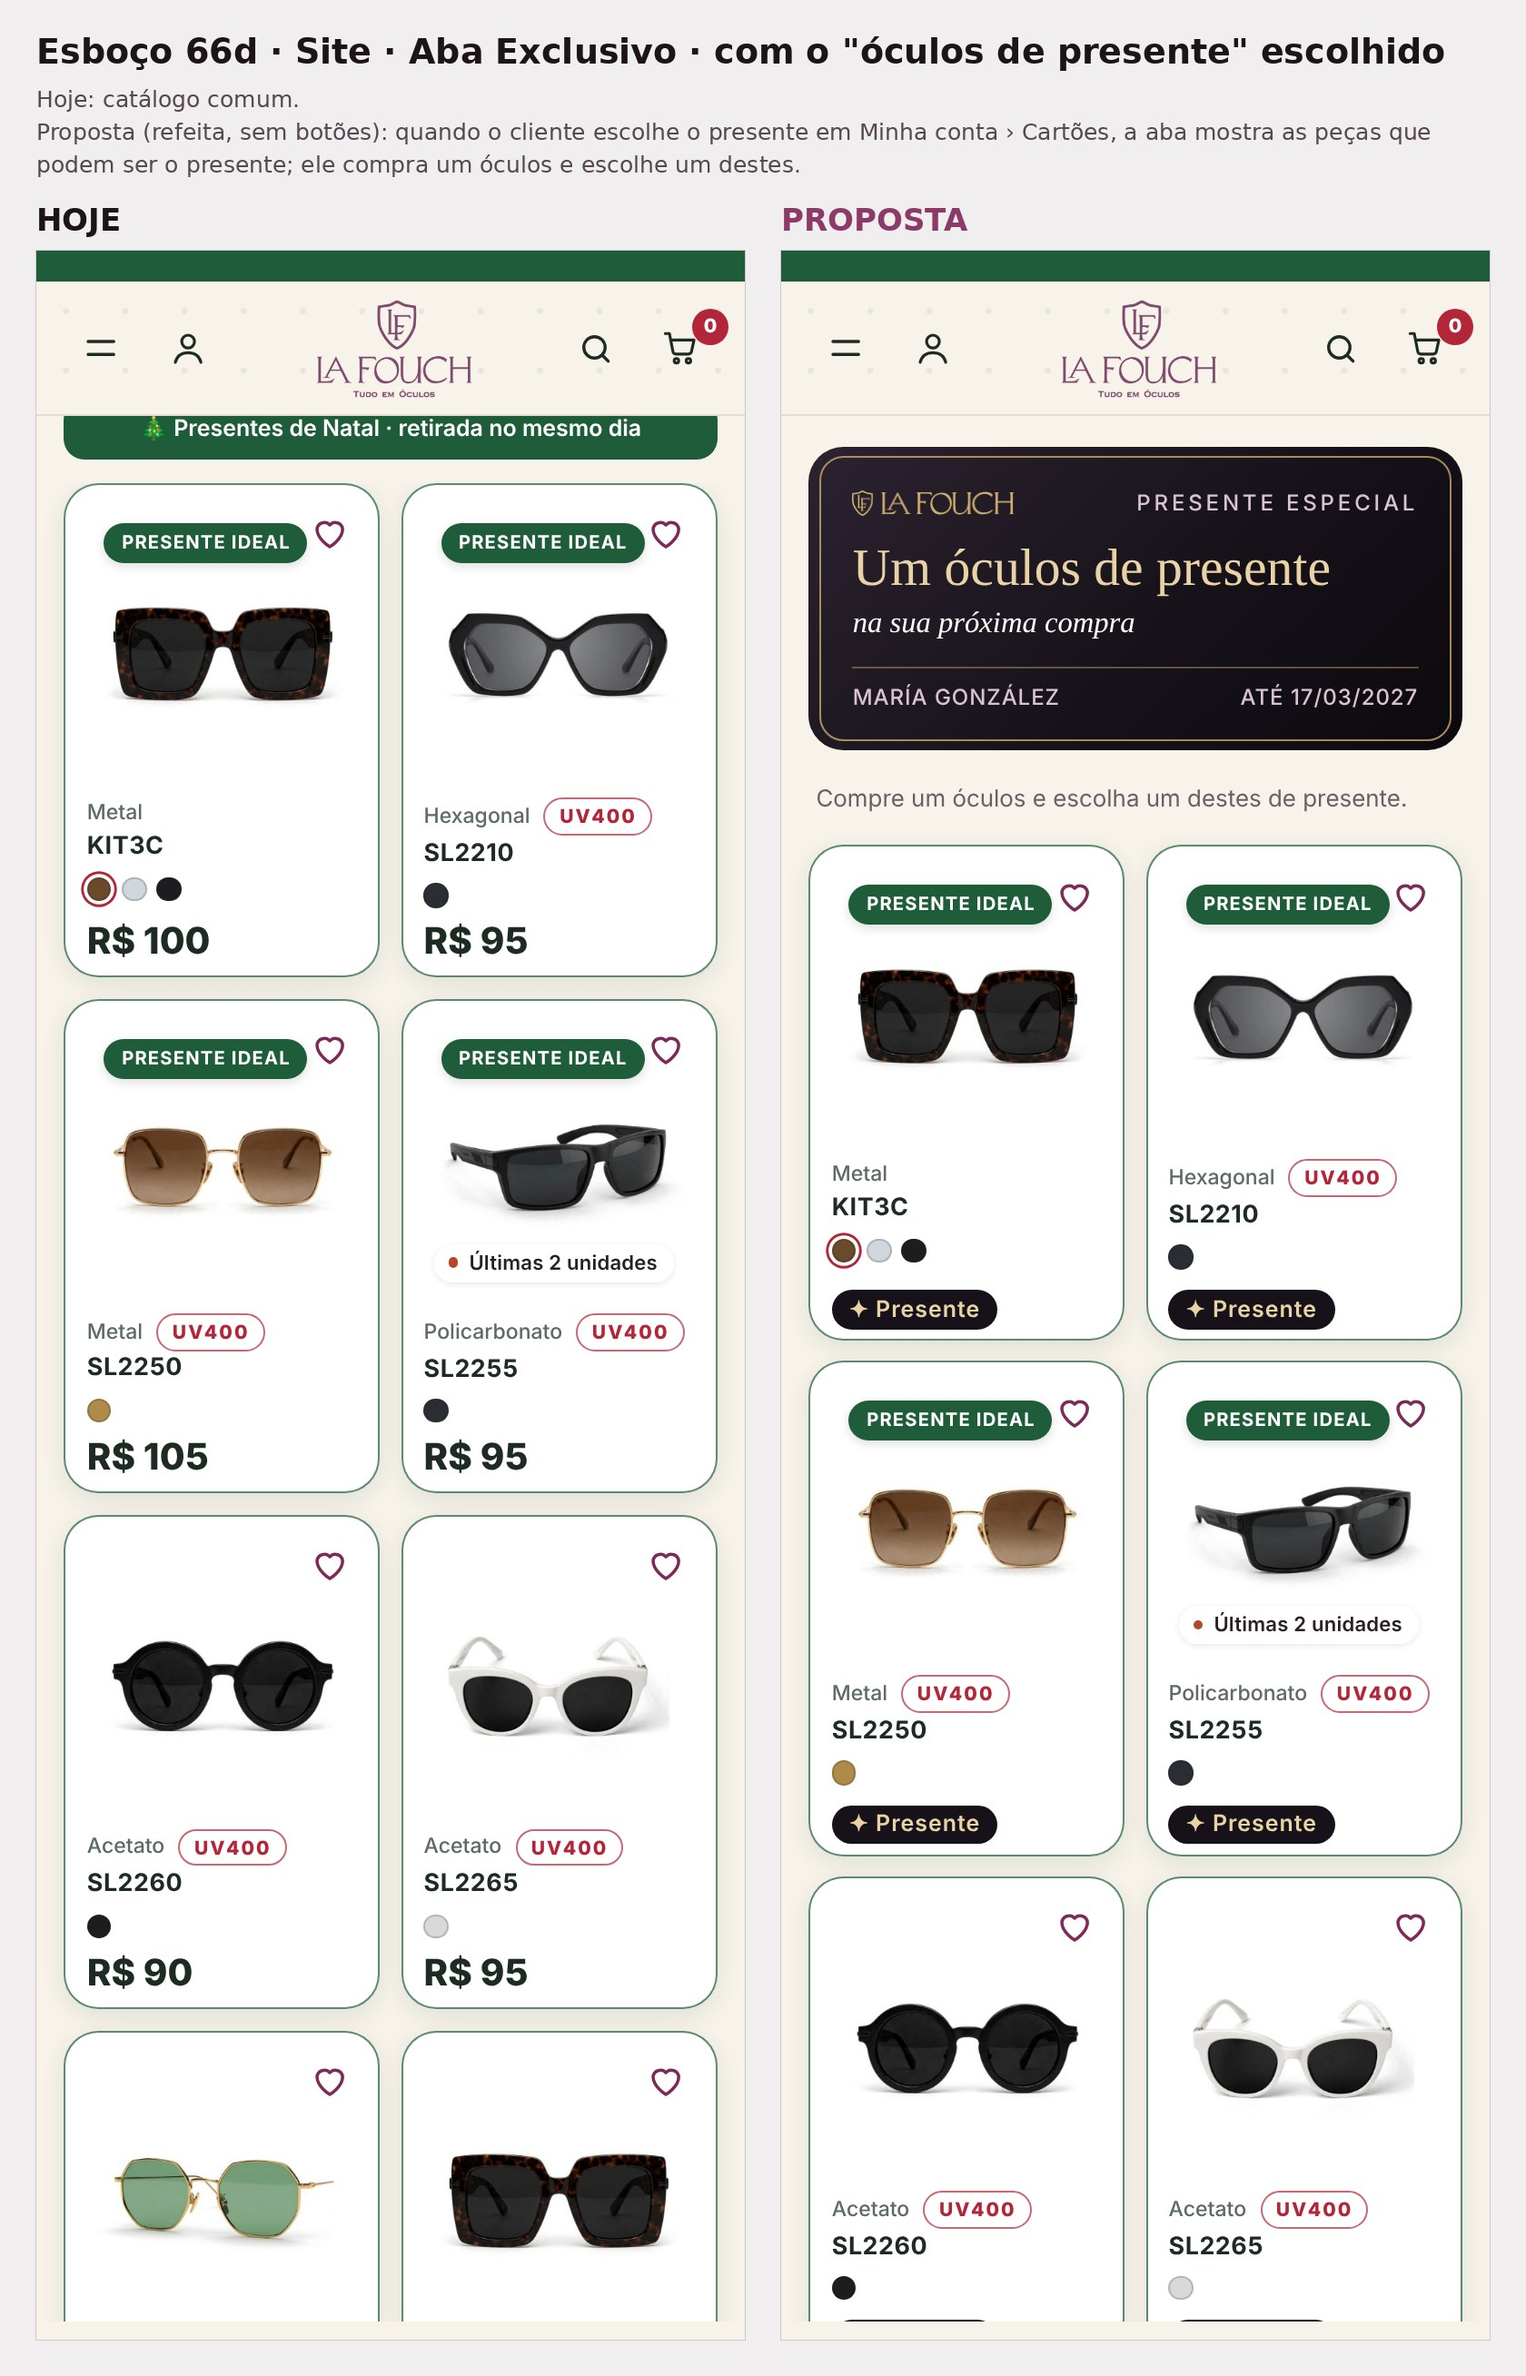
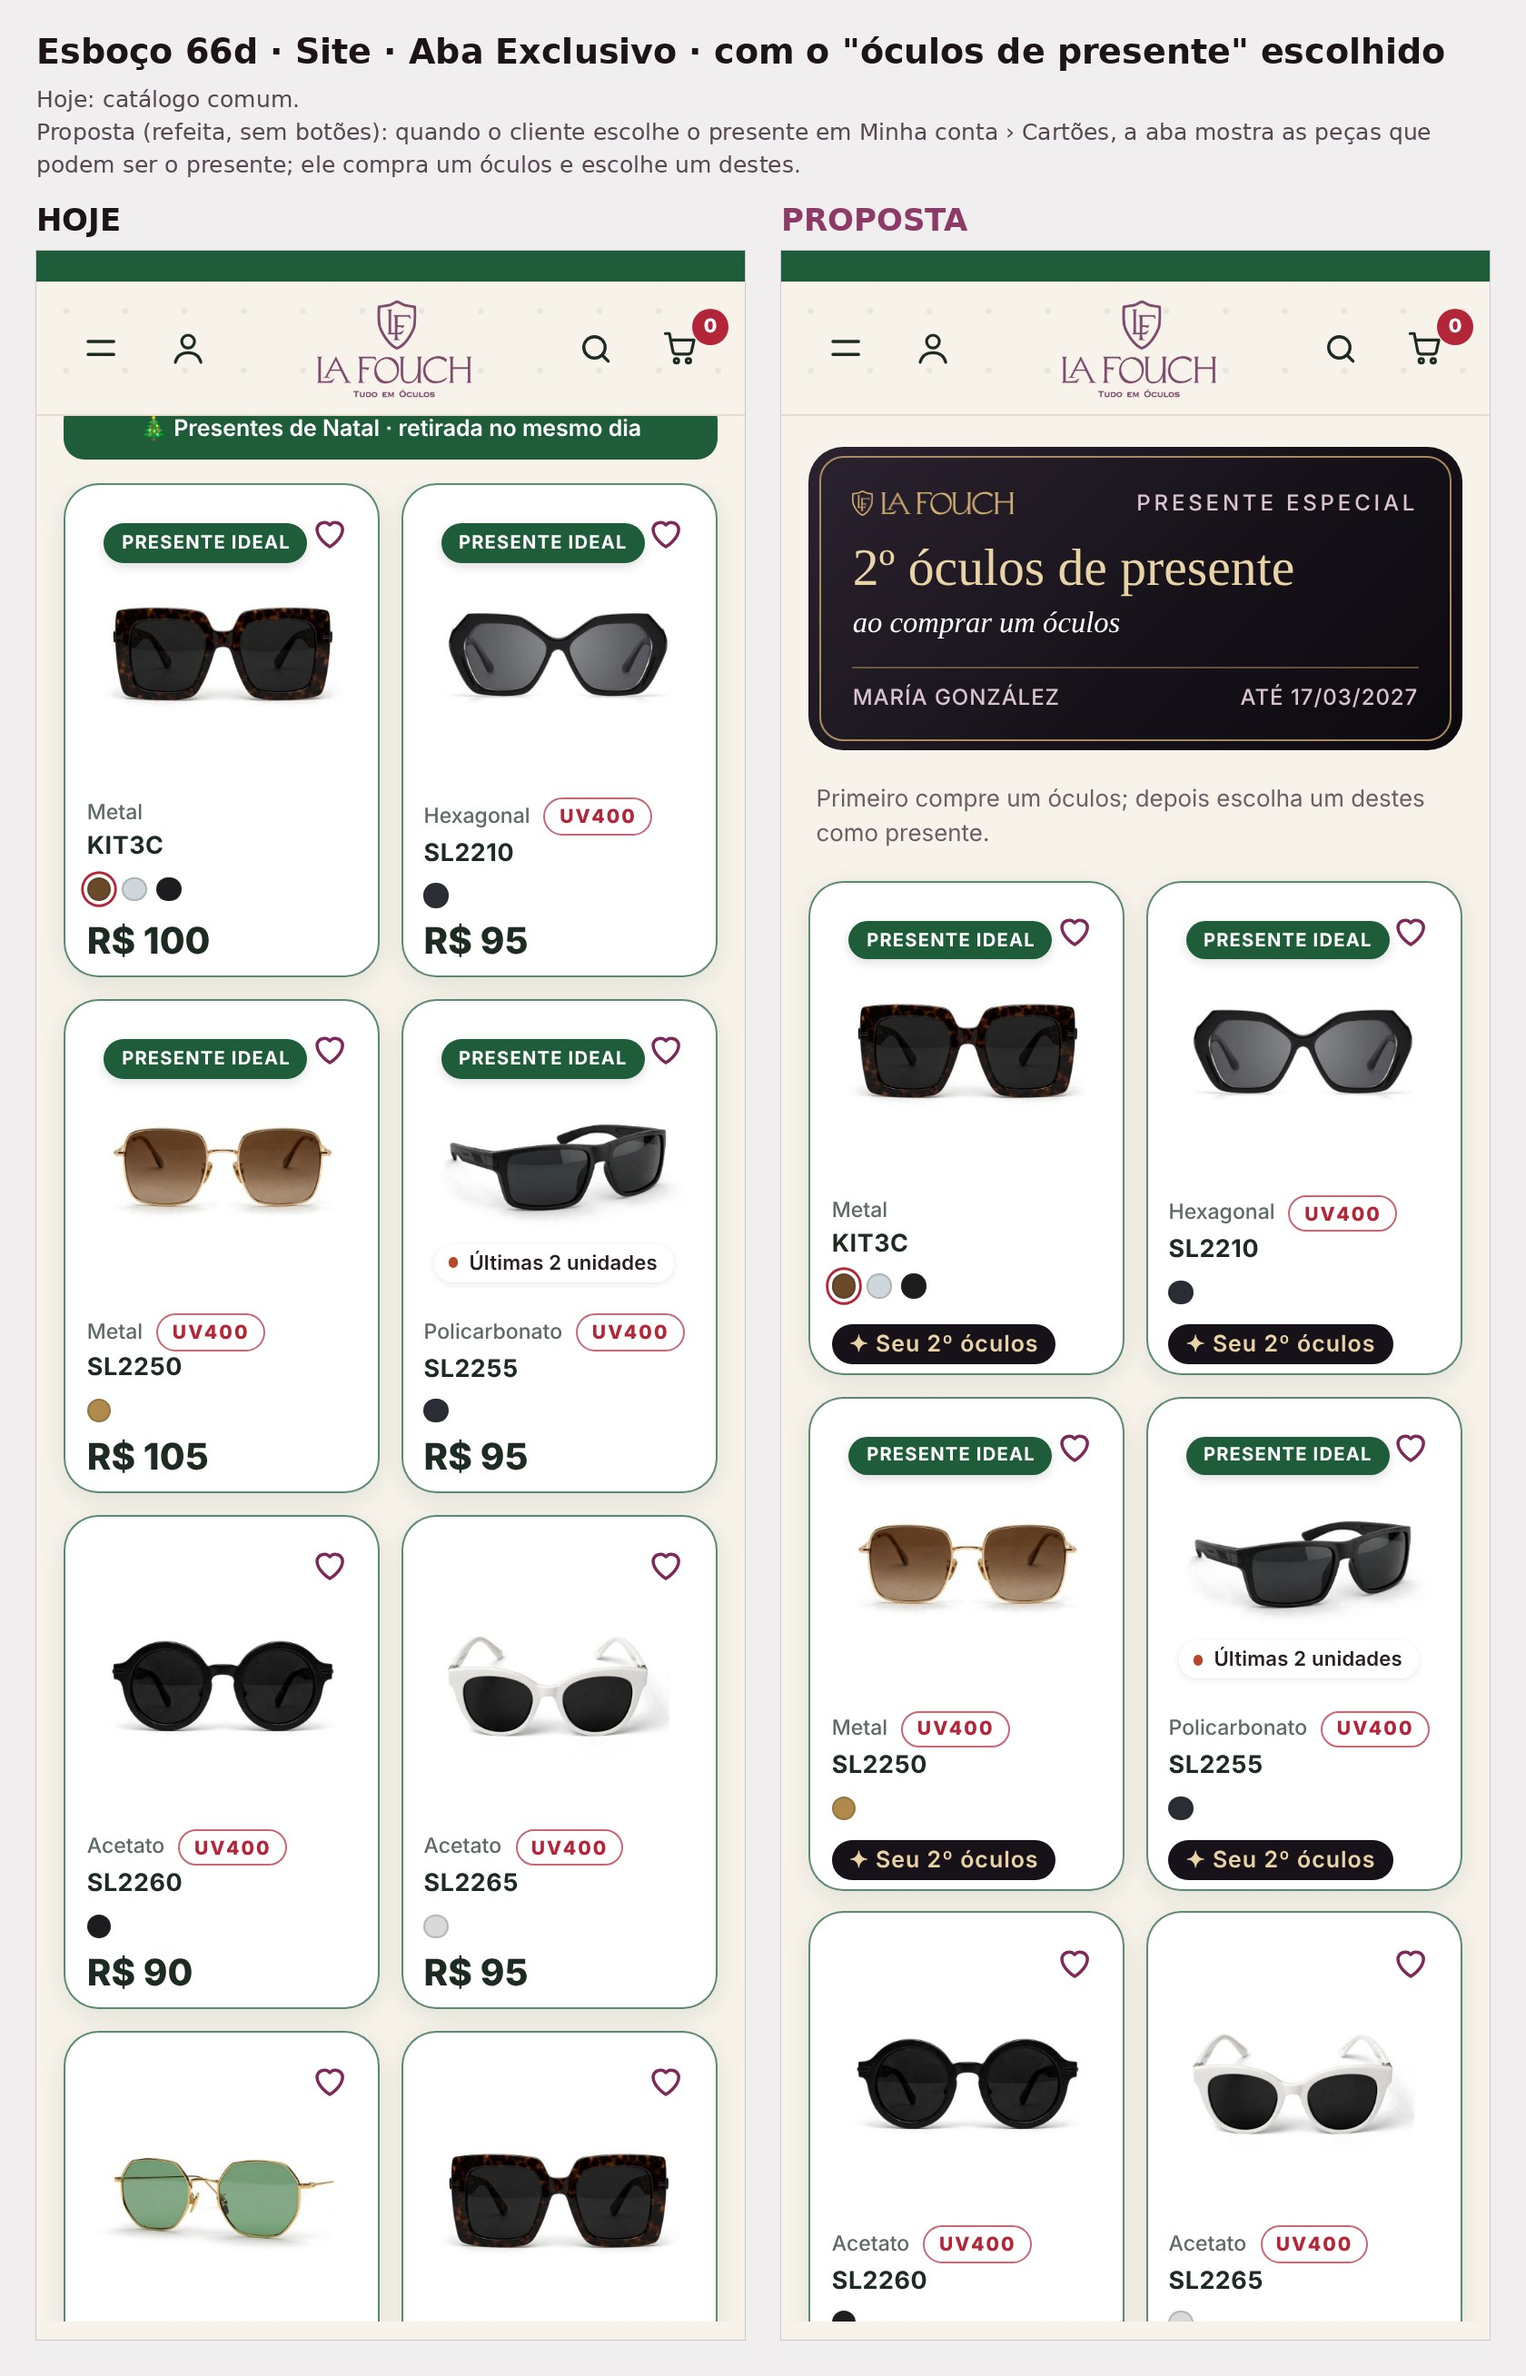
Esboços 63a e 66d: 2º óculos de presente ao comprar um óculos; padrão = cartão que vence primeiro
Claude-Session: https://claude.ai/code/session_01Vj5GPR2QjandaFr6ascRKC

diff --git a/work/s401/gera.js b/work/s401/gera.js
@@ -4,9 +4,9 @@ const tab=E.tabela([E.linha('Óculos de sol Hexagonal · Dourado · 1 un.','Gs. 
 const ped='<div style="text-align:center;font:13px '+E.SA+';color:'+E.S+';letter-spacing:.06em;margin:0 0 6px">PEDIDO 4821 · 17/11/2026</div>';
 // cartão do presente especial (refeito 17/11 07:50: o "5" sozinho ficava vazio): cinco estrelas douradas = as 5 indicações, título em serifa no lugar do número
 function especial(){const est='<div style="font:15px/1 Georgia,serif;letter-spacing:.42em;color:#d6b274;margin:18px 0 10px">✦✦✦✦✦</div>';
-  return E.luxo({tema:'preto',rot:'5 INDICAÇÕES',pct:'Um óculos de presente',tit:'na sua próxima compra',nome:'CARLOS BENÍTEZ',val:'VALE ATÉ 17/03/2027'}).replace('font:500 42px/1 '+E.SE+';color:#e9d3a6;margin:18px 0 2px;letter-spacing:.01em','font:500 27px/1.15 '+E.SE+';color:#e9d3a6;margin:0 0 4px;letter-spacing:.01em').replace('</table><div style="font:500 27px','</table>'+est+'<div style="font:500 27px')}
+  return E.luxo({tema:'preto',rot:'5 INDICAÇÕES',pct:'2º óculos de presente',tit:'ao comprar um óculos',nome:'CARLOS BENÍTEZ',val:'VALE ATÉ 17/03/2027'}).replace('font:500 42px/1 '+E.SE+';color:#e9d3a6;margin:18px 0 2px;letter-spacing:.01em','font:500 27px/1.15 '+E.SE+';color:#e9d3a6;margin:0 0 4px;letter-spacing:.01em').replace('</table><div style="font:500 27px','</table>'+est+'<div style="font:500 27px')}
 const L=[
- {arq:'63a-email-presente-da-5a-indicacao',nome:'presente especial da 5ª indicação',hoje:null,nota:'Hoje, na 5ª indicação que compra, só você recebe um aviso no app.<br><br>O cliente não fica sabendo de nada.',sub:['Hoje: só o aviso para você.','Proposta: o presente é o SEGUNDO ÓCULOS na próxima compra (aprovado 17/11 07:58). O cartão preto com as cinco estrelas diz isso; o botão leva a escolher.'],
+ {arq:'63a-email-presente-da-5a-indicacao',nome:'presente especial da 5ª indicação',hoje:null,nota:'Hoje, na 5ª indicação que compra, só você recebe um aviso no app.<br><br>O cliente não fica sabendo de nada.',sub:['Hoje: só o aviso para você.','Proposta: o presente é o SEGUNDO ÓCULOS na próxima compra. Cartão refeito (17/11 09:37): "2º óculos de presente · ao comprar um óculos", para não parecer que leva de graça sem comprar.'],
   assunto:'5 indicações · um presente especial para você',html:E.molde('Um presente '+E.I('especial'),E.P('Carlos, 5 pessoas que você indicou já compraram na La Fouch. Em agradecimento, na sua próxima compra o segundo óculos é presente nosso.')+especial()+E.B('Escolher meu presente','#')+E.PQ('Compre um óculos e escolha outro de presente, entre as peças que o site mostrar. Vale uma vez, no site e na loja.')+E.FIO()+E.metas(3,'Você chegou à última meta. Agradecemos por indicar a La Fouch.'))},
  {arq:'63b-email-pedido-cancelado',nome:'pedido cancelado (pela loja ou pelo cliente)',hoje:null,nota:'Hoje, quando um pedido é cancelado, o cliente só vê na tela do site.<br><br>Não chega e-mail.',sub:['Hoje: nenhum e-mail.','Proposta: e-mail curto dizendo que o pedido foi cancelado e que nada foi cobrado; se já pagou, fala com a loja.'],
   assunto:'Seu pedido 4821 foi cancelado',html:E.molde('Pedido '+E.I('cancelado'),E.P('Olá, Maria. O seu pedido foi cancelado e as peças voltaram para o site.')+ped+tab+E.PQ('Se você já tinha pago, fale com a loja: resolvemos na hora.')+E.B('Ver o catálogo','#')+E.LK('Falar com a loja no WhatsApp','#'))},

diff --git a/work/s401/esb5.py b/work/s401/esb5.py
@@ -18,10 +18,10 @@ PRAT="""()=>{const h=document.querySelector('.hsh.hsh1'),g=h.nextElementSibling;
 VERP="""(sel)=>{const h=document.querySelector(sel);h.scrollIntoView({block:'start'});let hb=document.querySelector('.top').getBoundingClientRect().bottom;[...document.querySelectorAll('body *')].forEach(e=>{const st=getComputedStyle(e);if(st.position==='fixed'||st.position==='sticky'){const r=e.getBoundingClientRect();if(r.top<=60&&r.height<260&&r.width>300)hb=Math.max(hb,r.bottom)}});window.scrollBy(0,-hb-34)}"""
 ABA2="""(m)=>{const LGO=window.__lgo,LGN=window.__lgn;const s=document.getElementById('vitrine'),g=document.getElementById('grid');[...s.children].forEach(e=>{if(e!==g&&!e.contains(g))e.style.display='none'});
  const h=document.createElement('div');h.className='exh'+(m===1?' nat':m===2?' pre':'');
- h.innerHTML='<div><img src="'+(m===1?LGN:LGO)+'" alt="La Fouch"><small>'+(m===1?'NATAL EXCLUSIVO':m===2?'PRESENTE ESPECIAL':'EXCLUSIVO')+'</small><strong>'+(m===2?'Um óculos de presente':'10%')+'</strong><em>'+(m===1?'de desconto · Natal':m===2?'na sua próxima compra':'nas peças desta página')+'</em><hr><p><span>'+(m===1?'PARA TODOS':'MARÍA GONZÁLEZ')+'</span><span>'+(m===1?'ATÉ 25/12/2026':m===2?'ATÉ 17/03/2027':'ATÉ 14/03/2027')+'</span></p></div>';g.parentNode.insertBefore(h,g);
+ h.innerHTML='<div><img src="'+(m===1?LGN:LGO)+'" alt="La Fouch"><small>'+(m===1?'NATAL EXCLUSIVO':m===2?'PRESENTE ESPECIAL':'EXCLUSIVO')+'</small><strong>'+(m===2?'2º óculos de presente':'10%')+'</strong><em>'+(m===1?'de desconto · Natal':m===2?'ao comprar um óculos':'nas peças desta página')+'</em><hr><p><span>'+(m===1?'PARA TODOS':'MARÍA GONZÁLEZ')+'</span><span>'+(m===1?'ATÉ 25/12/2026':m===2?'ATÉ 17/03/2027':'ATÉ 14/03/2027')+'</span></p></div>';g.parentNode.insertBefore(h,g);
  const r=document.createElement('div');r.className='exr';r.style.display='none';r.innerHTML='<small>SEUS CARTÕES</small><div><button type="button" class="v'+(m===0?' on':'')+'">10%<i>cartão presente</i></button><button type="button" class="n'+(m===1?' on':'')+'">10%<i>Natal</i></button><button type="button" class="p'+(m===2?' on':'')+'">✦<i>óculos de presente</i></button></div>';g.parentNode.insertBefore(r,g);
- const o=document.createElement('p');o.className='exo';o.style.margin='0 4px 16px';o.textContent=m===2?'Compre um óculos e escolha um destes de presente.':'Os preços abaixo já estão com o desconto.';g.parentNode.insertBefore(o,g);
- [...g.querySelectorAll('.card')].forEach(c=>{const p=c.querySelector('.pr');if(!p)return;if(m===2){p.innerHTML='<span class="gp">✦ Presente</span>';return}const x=/([\\d.]+)/.exec(p.textContent);if(!x)return;const v=+x[1].replace(/\\./g,'');p.innerHTML='<s>'+p.textContent.trim()+'</s>'+p.textContent.trim().replace(x[1],String(Math.round(v*.9)))});
+ const o=document.createElement('p');o.className='exo';o.style.margin='0 4px 16px';o.textContent=m===2?'Primeiro compre um óculos; depois escolha um destes como presente.':'Os preços abaixo já estão com o desconto.';g.parentNode.insertBefore(o,g);
+ [...g.querySelectorAll('.card')].forEach(c=>{const p=c.querySelector('.pr');if(!p)return;if(m===2){p.innerHTML='<span class="gp">✦ Seu 2º óculos</span>';return}const x=/([\\d.]+)/.exec(p.textContent);if(!x)return;const v=+x[1].replace(/\\./g,'');p.innerHTML='<s>'+p.textContent.trim()+'</s>'+p.textContent.trim().replace(x[1],String(Math.round(v*.9)))});
  const rc=getComputedStyle(g.querySelector('.card')).borderRadius;h.style.setProperty('--rc',rc);h.scrollIntoView({block:'start'});let hb=document.querySelector('.top').getBoundingClientRect().bottom;[...document.querySelectorAll('body *')].forEach(e=>{const st=getComputedStyle(e);if(st.position==='fixed'||st.position==='sticky'){const q=e.getBoundingClientRect();if(q.top<=60&&q.height<260&&q.width>300)hb=Math.max(hb,q.bottom)}});window.scrollBy(0,h.getBoundingClientRect().top-hb-16);const sp=document.createElement('div');sp.style.cssText='height:44px';h.parentNode.insertBefore(sp,h);const sc=document.getElementById('vscr');const fl=hb+18-h.getBoundingClientRect().top;if(fl>0&&sc)sc.scrollTop-=fl;return [hb,h.getBoundingClientRect().top]}"""
 AUTO="""()=>{const d=document.querySelector('#layer .exc');d.innerHTML='<span><i>✦</i>Cartão de 10% aplicado</span><span style="font-weight:600;color:#1f8f4e">− R$ 10</span>';const n=document.createElement('p');n.className='exn';n.innerHTML='O seu cartão entrou sozinho porque a peça veio da Exclusivo. <a href="#">Guardar para outra compra ›</a>';document.querySelector('#layer .cl').appendChild(n);const t=document.querySelector('#layer .cs-t b');if(t)t.textContent='R$ 90'}"""
 LEVE="""()=>{const d=document.querySelector('#layer .exc');d.innerHTML='<span style="color:#1d1418"><i>✦</i>Leve 2 aplicado</span><span style="font-weight:600;color:#1f8f4e">− R$ 28</span>';const n=document.createElement('p');n.className='exn';n.innerHTML='Este carrinho tem “Leve 2”, que não soma com o cartão. Entrou o maior desconto; o seu cartão de 10% continua guardado.';document.querySelector('#layer .cl').appendChild(n);const t=document.querySelector('#layer .cs-t b');if(t)t.textContent='R$ 72'}"""

diff --git a/docs/FALTA-APROVAR-15-11.md b/docs/FALTA-APROVAR-15-11.md
@@ -352,3 +352,4 @@ Não são esquecimento (estavam na lista, parados de propósito ou por ordem do 
 - 17/11 09:33 — DONO (proposta dele, melhor): a aba Exclusivo fica LIMPA, SEM os 3 botões "Seus cartões" (66b/66c como desenhados ficam RETIRADOS); por padrão vale o cartão da TEMÁTICA (evento); para trocar, o cliente escolhe em Minha conta › Cartões. E na prateleira/aba, em vez do "10%" "escandaloso", só alterar levemente a COR da palavra "Exclusivo". Refazer os esboços.
 - 17/11 09:5x — ESBOÇOS REFEITOS pela proposta do dono, ESPERANDO decisão (work/s401/esb5.py; nada implementado): 66a prateleira "Exclusivo" SEM o "10%" (só a palavra em dourado #8a6a33) · 66b aba Exclusivo limpa, sem botões, valendo por padrão o cartão da temática · 66d aba com o "óculos de presente" escolhido, sem botões · 66g NOVO: Minha conta › Cartões — o cartão em uso aparece primeiro, marcado "Em uso na aba Exclusivo"; "Usar este" nos outros troca e leva à aba · 66e e 66f sem mudança. RETIRADOS: 66c e a fileira "Seus cartões". Inspetor: 66b, 66d, 66g sem falha nova; 66a continua acusando "Ver todos ›" com toque < 24 px (mesmo link das prateleiras de hoje). A decidir: fora de evento, qual cartão vale por padrão (proposta: o de maior desconto).
 - 17/11/2026 · ✔ PUBLICADO app v555 / 5.40.0: 88 (Vender: ícones redondos 44 px, lote com pacote, "−"/"+" 44 px e "Vender" embaixo) ✔ v555 · 89 ("Ficha no Inventário ›" no fim da peça) ✔ v555 · 90 (Parecidas só no Modo cliente) ✔ v555 · 91 (barra de vender não segue a tela) ✔ v555 · 92 (preço na cor do texto no Vender; também no Modo cliente, que é a mesma tela) ✔ v555. 316/316 testes (1ª rodada: só a falha de tempo antiga da lixeira do Início; 2ª rodada inteira passou). NÃO testado no celular. Próximo: aba Site.
+- 17/11 09:37 — DONO: (1) com mais de um cartão, vale por padrão na aba O QUE VENCE PRIMEIRO (decisão dele; em evento, o da temática); (2) o cartão do presente dava a entender que o cliente leva de graça sem comprar antes → REFEITO (esperando decisão): cartão "2º óculos de presente · ao comprar um óculos"; na aba, a frase "Primeiro compre um óculos; depois escolha um destes como presente." e a etiqueta das peças "✦ Seu 2º óculos" (66d e o e-mail 63a). REGRA de texto: o presente da 5ª indicação é sempre "2º óculos", nunca "um óculos de presente" sozinho.
